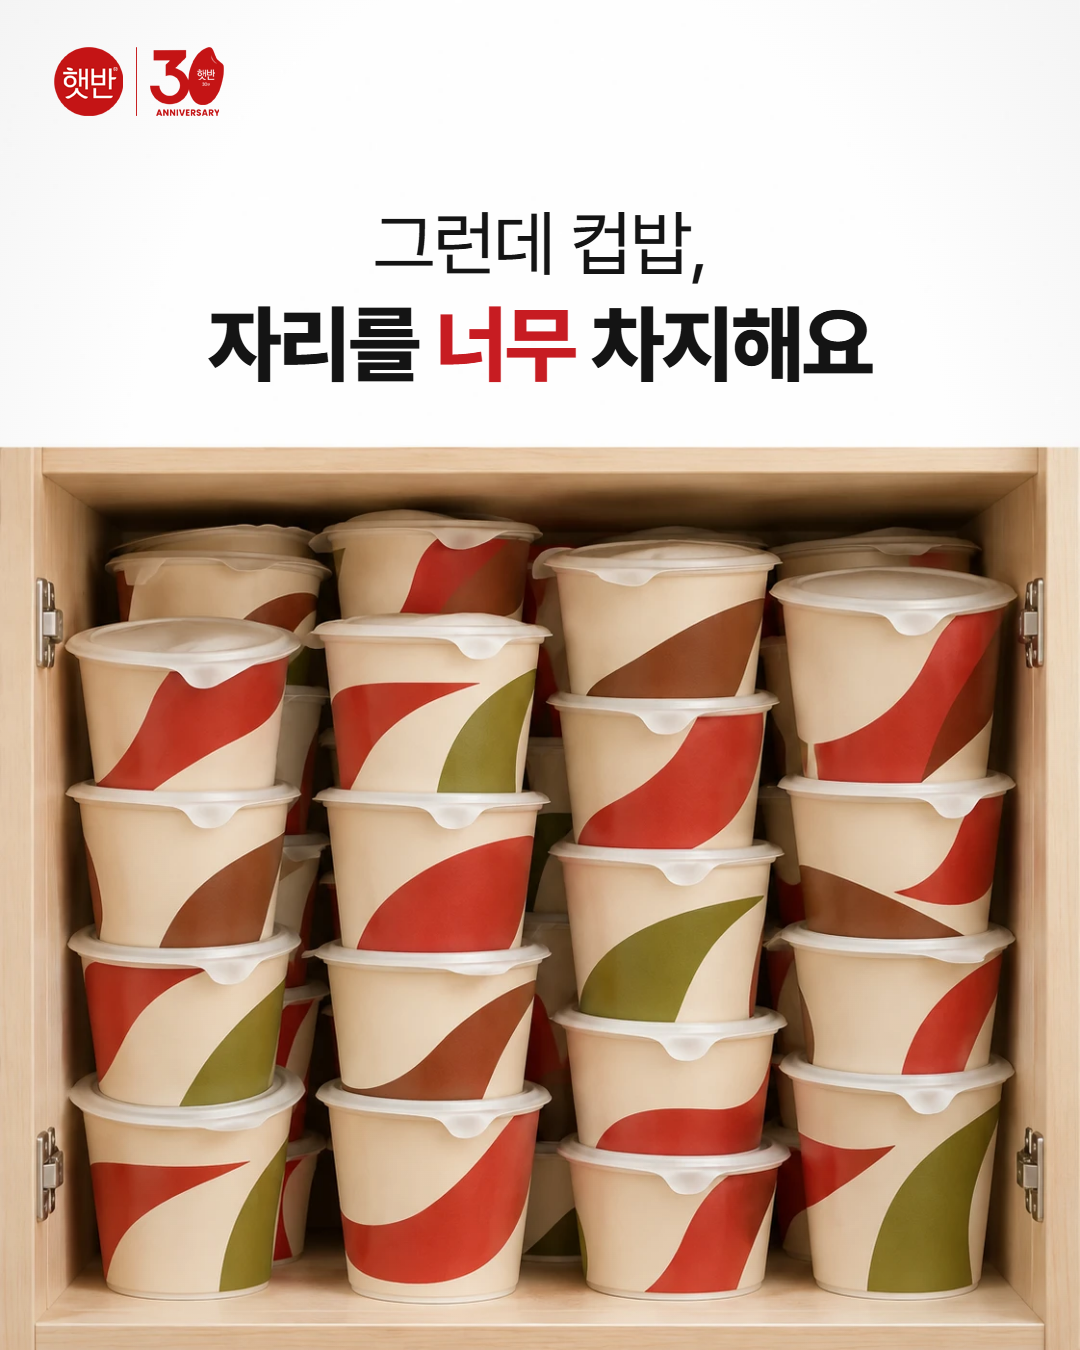
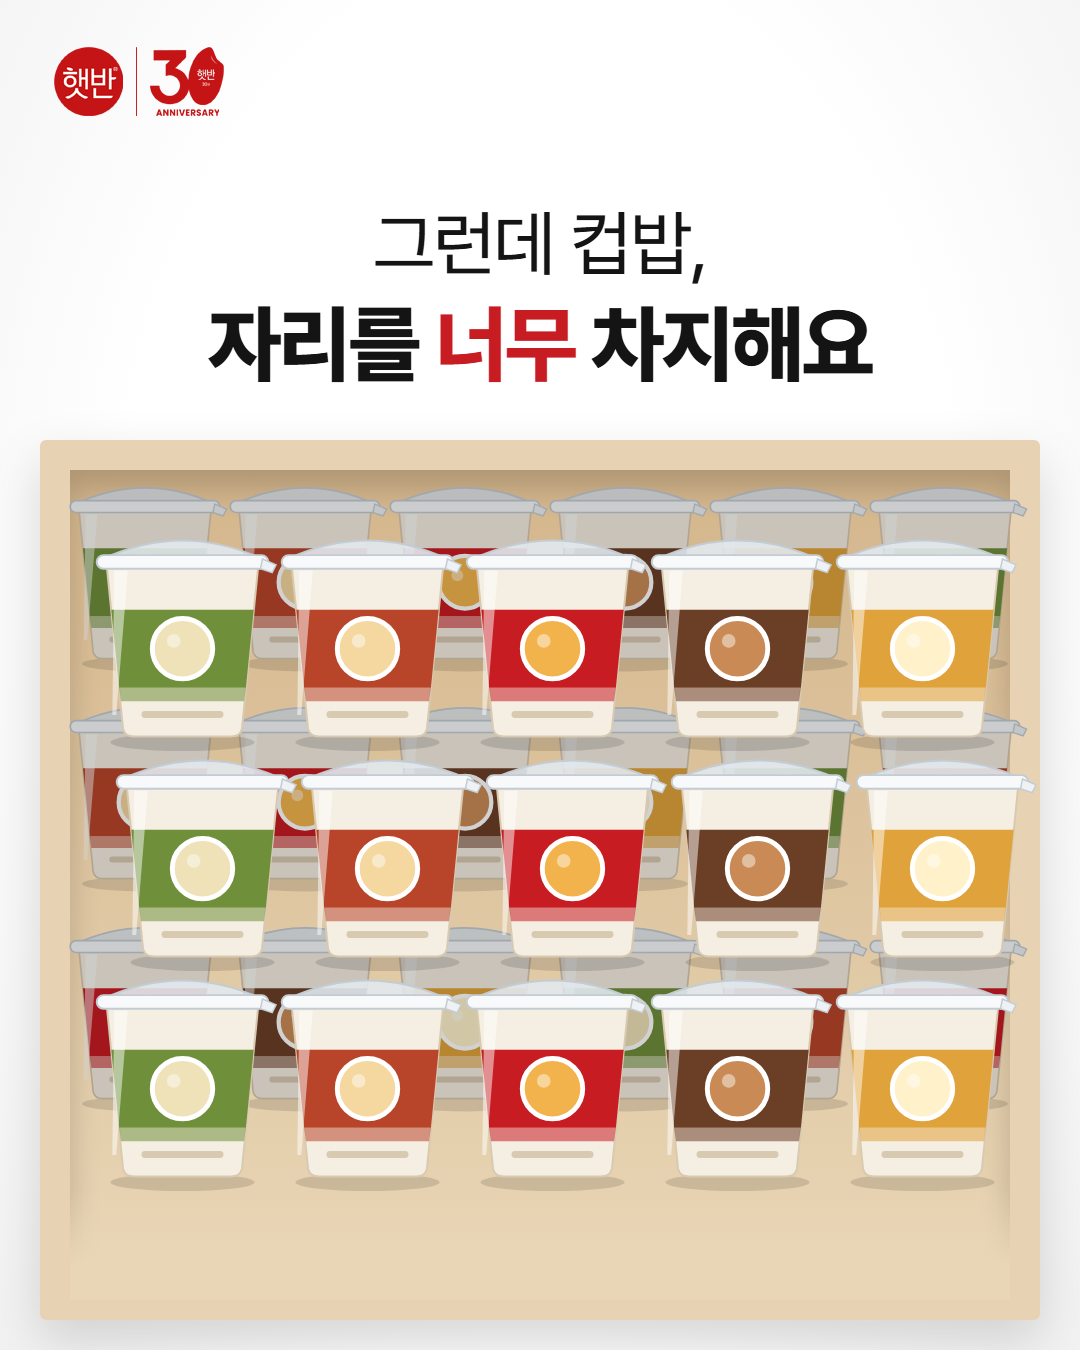
Auto-sync: 2026-11-13 21:38:05

diff --git a/햇반공모전/캐러셀_슬라이드.html b/햇반공모전/캐러셀_슬라이드.html
@@ -30,6 +30,31 @@ body{background:#ddd;font-family:Pretendard,"Malgun Gothic",sans-serif;color:var
 .cap{font-size:20px;color:#888;letter-spacing:0}
 </style></head><body>
 
+<svg width="0" height="0" style="position:absolute">
+ <defs>
+  <symbol id="cup" viewBox="0 0 200 240">
+   <ellipse cx="100" cy="228" rx="74" ry="9" fill="rgba(0,0,0,.12)"/>
+   <path d="M22 44 L178 44 L161 214 Q159 222 150 222 L50 222 Q41 222 39 214 Z" fill="#f5eee2" stroke="#d8c9b1" stroke-width="2"/>
+   <path d="M27 92 L173 92 L165 172 L35 172 Z" fill="var(--band)"/>
+   <path d="M35 172 L165 172 L163 186 L37 186 Z" fill="var(--band)" opacity=".55"/>
+   <circle cx="100" cy="132" r="31" fill="var(--food)" stroke="#fff" stroke-width="5"/>
+   <circle cx="91" cy="124" r="7" fill="#fff" opacity=".45"/>
+   <rect x="58" y="196" width="84" height="7" rx="3.5" fill="#d8c9b1"/>
+   <path d="M30 52 L44 52 L32 200 L28 200 Z" fill="#fff" opacity=".5"/>
+   <path d="M18 40 Q100 2 182 40 Z" fill="rgba(226,233,238,.9)" stroke="#c3ccd3" stroke-width="2"/>
+   <rect x="12" y="36" width="176" height="14" rx="7" fill="#f7f9fa" stroke="#c3ccd3" stroke-width="2"/>
+   <path d="M182 40 l14 6 l-4 8 l-12 -4 Z" fill="#eef2f5" stroke="#c3ccd3" stroke-width="1.5"/>
+  </symbol>
+  <symbol id="tray" viewBox="0 0 260 64">
+   <path d="M18 18 L242 18 L226 58 Q224 62 218 62 L42 62 Q36 62 34 58 Z" fill="#fbfbfb" stroke="#cfcfcf" stroke-width="2"/>
+   <path d="M70 26 L80 58 M130 26 L130 60 M190 26 L180 58" stroke="#ececec" stroke-width="2"/>
+   <path d="M6 14 L254 14 L250 22 L10 22 Z" fill="#f0e2cf" stroke="#d9c7aa" stroke-width="1.5"/>
+   <path d="M2 14 l10 -8 l6 8 Z" fill="#f7f0e4" stroke="#d9c7aa" stroke-width="1.2"/>
+   <circle cx="92" cy="10" r="9" fill="#c71c22"/>
+  </symbol>
+ </defs>
+</svg>
+
 <!-- 02 공감 -->
 <section class="slide" id="s02">
   <div class="logo"><img src="참고이미지/햇반30로고.png"></div>
@@ -107,12 +132,47 @@ body{background:#ddd;font-family:Pretendard,"Malgun Gothic",sans-serif;color:var
 
 <!-- 03 문제 -->
 <section class="slide" id="s03">
-  <img class="photo" src="출품1_이미지/P2.webp">
   <div class="logo"><img src="참고이미지/햇반30로고.png"></div>
   <div class="center" style="top:200px">
     <div class="h-light" style="font-size:72px">그런데 컵밥,</div>
     <div class="h-bold" style="font-size:84px;margin-top:8px">자리를 <span style="color:var(--red)">너무</span> 차지해요</div>
   </div>
+  <div style="position:absolute;inset:0;overflow:hidden"><div style="position:absolute;left:40px;top:440px;width:1000px;height:880px;background:#e7d3b3;border-radius:6px;box-shadow:0 20px 50px rgba(0,0,0,.15)"></div>
+<div style="position:absolute;left:70px;top:470px;width:940px;height:830px;background:linear-gradient(#d4b68c,#e9d6b6);box-shadow:inset 0 18px 30px rgba(0,0,0,.18)"></div>
+<svg style="position:absolute;left:60px;top:470px;width:170px;height:204.0px;filter:brightness(.82)"><use href="#cup" style="--band:#6f8f3a;--food:#efe2b8"/></svg>
+<svg style="position:absolute;left:220px;top:470px;width:170px;height:204.0px;filter:brightness(.82)"><use href="#cup" style="--band:#b8452a;--food:#f5d7a0"/></svg>
+<svg style="position:absolute;left:380px;top:470px;width:170px;height:204.0px;filter:brightness(.82)"><use href="#cup" style="--band:#c71c22;--food:#f2b34c"/></svg>
+<svg style="position:absolute;left:540px;top:470px;width:170px;height:204.0px;filter:brightness(.82)"><use href="#cup" style="--band:#6b3e26;--food:#c98a55"/></svg>
+<svg style="position:absolute;left:700px;top:470px;width:170px;height:204.0px;filter:brightness(.82)"><use href="#cup" style="--band:#e0a23a;--food:#fff1c9"/></svg>
+<svg style="position:absolute;left:860px;top:470px;width:170px;height:204.0px;filter:brightness(.82)"><use href="#cup" style="--band:#6f8f3a;--food:#efe2b8"/></svg>
+<svg style="position:absolute;left:60px;top:690px;width:170px;height:204.0px;filter:brightness(.82)"><use href="#cup" style="--band:#b8452a;--food:#f5d7a0"/></svg>
+<svg style="position:absolute;left:220px;top:690px;width:170px;height:204.0px;filter:brightness(.82)"><use href="#cup" style="--band:#c71c22;--food:#f2b34c"/></svg>
+<svg style="position:absolute;left:380px;top:690px;width:170px;height:204.0px;filter:brightness(.82)"><use href="#cup" style="--band:#6b3e26;--food:#c98a55"/></svg>
+<svg style="position:absolute;left:540px;top:690px;width:170px;height:204.0px;filter:brightness(.82)"><use href="#cup" style="--band:#e0a23a;--food:#fff1c9"/></svg>
+<svg style="position:absolute;left:700px;top:690px;width:170px;height:204.0px;filter:brightness(.82)"><use href="#cup" style="--band:#6f8f3a;--food:#efe2b8"/></svg>
+<svg style="position:absolute;left:860px;top:690px;width:170px;height:204.0px;filter:brightness(.82)"><use href="#cup" style="--band:#b8452a;--food:#f5d7a0"/></svg>
+<svg style="position:absolute;left:60px;top:910px;width:170px;height:204.0px;filter:brightness(.82)"><use href="#cup" style="--band:#c71c22;--food:#f2b34c"/></svg>
+<svg style="position:absolute;left:220px;top:910px;width:170px;height:204.0px;filter:brightness(.82)"><use href="#cup" style="--band:#6b3e26;--food:#c98a55"/></svg>
+<svg style="position:absolute;left:380px;top:910px;width:170px;height:204.0px;filter:brightness(.82)"><use href="#cup" style="--band:#e0a23a;--food:#fff1c9"/></svg>
+<svg style="position:absolute;left:540px;top:910px;width:170px;height:204.0px;filter:brightness(.82)"><use href="#cup" style="--band:#6f8f3a;--food:#efe2b8"/></svg>
+<svg style="position:absolute;left:700px;top:910px;width:170px;height:204.0px;filter:brightness(.82)"><use href="#cup" style="--band:#b8452a;--food:#f5d7a0"/></svg>
+<svg style="position:absolute;left:860px;top:910px;width:170px;height:204.0px;filter:brightness(.82)"><use href="#cup" style="--band:#c71c22;--food:#f2b34c"/></svg>
+<svg style="position:absolute;left:85px;top:520px;width:195px;height:234.0px;"><use href="#cup" style="--band:#6f8f3a;--food:#efe2b8"/></svg>
+<svg style="position:absolute;left:270px;top:520px;width:195px;height:234.0px;"><use href="#cup" style="--band:#b8452a;--food:#f5d7a0"/></svg>
+<svg style="position:absolute;left:455px;top:520px;width:195px;height:234.0px;"><use href="#cup" style="--band:#c71c22;--food:#f2b34c"/></svg>
+<svg style="position:absolute;left:640px;top:520px;width:195px;height:234.0px;"><use href="#cup" style="--band:#6b3e26;--food:#c98a55"/></svg>
+<svg style="position:absolute;left:825px;top:520px;width:195px;height:234.0px;"><use href="#cup" style="--band:#e0a23a;--food:#fff1c9"/></svg>
+<svg style="position:absolute;left:105px;top:740px;width:195px;height:234.0px;"><use href="#cup" style="--band:#6f8f3a;--food:#efe2b8"/></svg>
+<svg style="position:absolute;left:290px;top:740px;width:195px;height:234.0px;"><use href="#cup" style="--band:#b8452a;--food:#f5d7a0"/></svg>
+<svg style="position:absolute;left:475px;top:740px;width:195px;height:234.0px;"><use href="#cup" style="--band:#c71c22;--food:#f2b34c"/></svg>
+<svg style="position:absolute;left:660px;top:740px;width:195px;height:234.0px;"><use href="#cup" style="--band:#6b3e26;--food:#c98a55"/></svg>
+<svg style="position:absolute;left:845px;top:740px;width:195px;height:234.0px;"><use href="#cup" style="--band:#e0a23a;--food:#fff1c9"/></svg>
+<svg style="position:absolute;left:85px;top:960px;width:195px;height:234.0px;"><use href="#cup" style="--band:#6f8f3a;--food:#efe2b8"/></svg>
+<svg style="position:absolute;left:270px;top:960px;width:195px;height:234.0px;"><use href="#cup" style="--band:#b8452a;--food:#f5d7a0"/></svg>
+<svg style="position:absolute;left:455px;top:960px;width:195px;height:234.0px;"><use href="#cup" style="--band:#c71c22;--food:#f2b34c"/></svg>
+<svg style="position:absolute;left:640px;top:960px;width:195px;height:234.0px;"><use href="#cup" style="--band:#6b3e26;--food:#c98a55"/></svg>
+<svg style="position:absolute;left:825px;top:960px;width:195px;height:234.0px;"><use href="#cup" style="--band:#e0a23a;--food:#fff1c9"/></svg>
+<div style="position:absolute;left:70px;top:1190px;width:940px;height:110px;background:linear-gradient(rgba(233,214,182,0),#e9d6b6 70%)"></div></div>
 </section>
 
 <!-- 05 제안 -->
@@ -162,14 +222,29 @@ body{background:#ddd;font-family:Pretendard,"Malgun Gothic",sans-serif;color:var
 </section>
 
 <!-- 09 부피 -->
-<section class="slide" id="s09" style="background:#efefef">
-  <img src="출품1_이미지/P7.webp" style="position:absolute;left:100px;top:270px;width:880px;-webkit-mask-image:radial-gradient(ellipse 72% 72% at 50% 50%,#000 62%,transparent 100%);mask-image:radial-gradient(ellipse 72% 72% at 50% 50%,#000 62%,transparent 100%)">
+<section class="slide" id="s09" style="background:#fff">
   <div class="logo"><img src="참고이미지/햇반30로고.png"></div>
   <div class="center" style="top:150px">
     <div class="h-bold" style="font-size:70px">부피는 줄이고, <span class="box" style="font-size:70px;padding:2px 16px 6px">맛은 그대로</span></div>
   </div>
-  <div class="pill" style="left:110px;top:330px;color:#555;border-color:#999">기존 컵밥 6개</div>
-  <div class="center" style="top:1270px"><span class="h-bold" style="font-size:34px;letter-spacing:-1px">햇반 + <span style="color:var(--red)">햇뚜</span> + <span style="color:var(--red)">한알양념</span>이면 충분해요</span></div>
+  <div class="pill" style="left:200px;top:300px;color:#555;border-color:#999;z-index:2">기존 컵밥 6개</div>
+  <div style="position:absolute;left:170px;top:330px;width:740px;height:480px;border:3px dashed #b9a98f;border-radius:14px"></div>
+  <svg style="position:absolute;left:215px;top:340px;width:210px;height:252.0px;"><use href="#cup" style="--band:#c71c22;--food:#f2b34c"/></svg>
+  <svg style="position:absolute;left:430px;top:340px;width:210px;height:252.0px;"><use href="#cup" style="--band:#6b3e26;--food:#c98a55"/></svg>
+  <svg style="position:absolute;left:645px;top:340px;width:210px;height:252.0px;"><use href="#cup" style="--band:#e0a23a;--food:#fff1c9"/></svg>
+  <svg style="position:absolute;left:215px;top:520px;width:210px;height:252.0px;"><use href="#cup" style="--band:#6f8f3a;--food:#efe2b8"/></svg>
+  <svg style="position:absolute;left:430px;top:520px;width:210px;height:252.0px;"><use href="#cup" style="--band:#b8452a;--food:#f5d7a0"/></svg>
+  <svg style="position:absolute;left:645px;top:520px;width:210px;height:252.0px;"><use href="#cup" style="--band:#c71c22;--food:#f2b34c"/></svg>
+  <svg style="position:absolute;left:500px;top:818px;width:70px;height:62px" viewBox="0 0 80 90"><path d="M28 0 h24 v52 h22 l-34 38 l-34 -38 h22 z" fill="#c71c22"/></svg>
+  <div style="position:absolute;left:400px;top:872px;width:620px;height:405px;overflow:hidden;-webkit-mask-image:linear-gradient(90deg,transparent 0,#000 8%,#000 92%,transparent 100%)">
+    <img src="출품1_이미지/P3.webp" style="position:absolute;left:0;top:-292px;width:620px;mix-blend-mode:multiply">
+  </div>
+  <svg style="position:absolute;left:90px;top:1190px;width:290px;height:72px"><use href="#tray"/></svg>
+  <svg style="position:absolute;left:90px;top:1150px;width:290px;height:72px"><use href="#tray"/></svg>
+  <svg style="position:absolute;left:90px;top:1110px;width:290px;height:72px"><use href="#tray"/></svg>
+  <svg style="position:absolute;left:90px;top:1070px;width:290px;height:72px"><use href="#tray"/></svg>
+  <svg style="position:absolute;left:90px;top:1030px;width:290px;height:72px"><use href="#tray"/></svg>
+  <div class="center" style="top:1290px"><span class="h-bold" style="font-size:32px;letter-spacing:-1px">햇반 + <span style="color:var(--red)">햇뚜</span> + <span style="color:var(--red)">한알양념</span>이면 충분해요</span></div>
 </section>
 
 <!-- 11 사용법 -->
